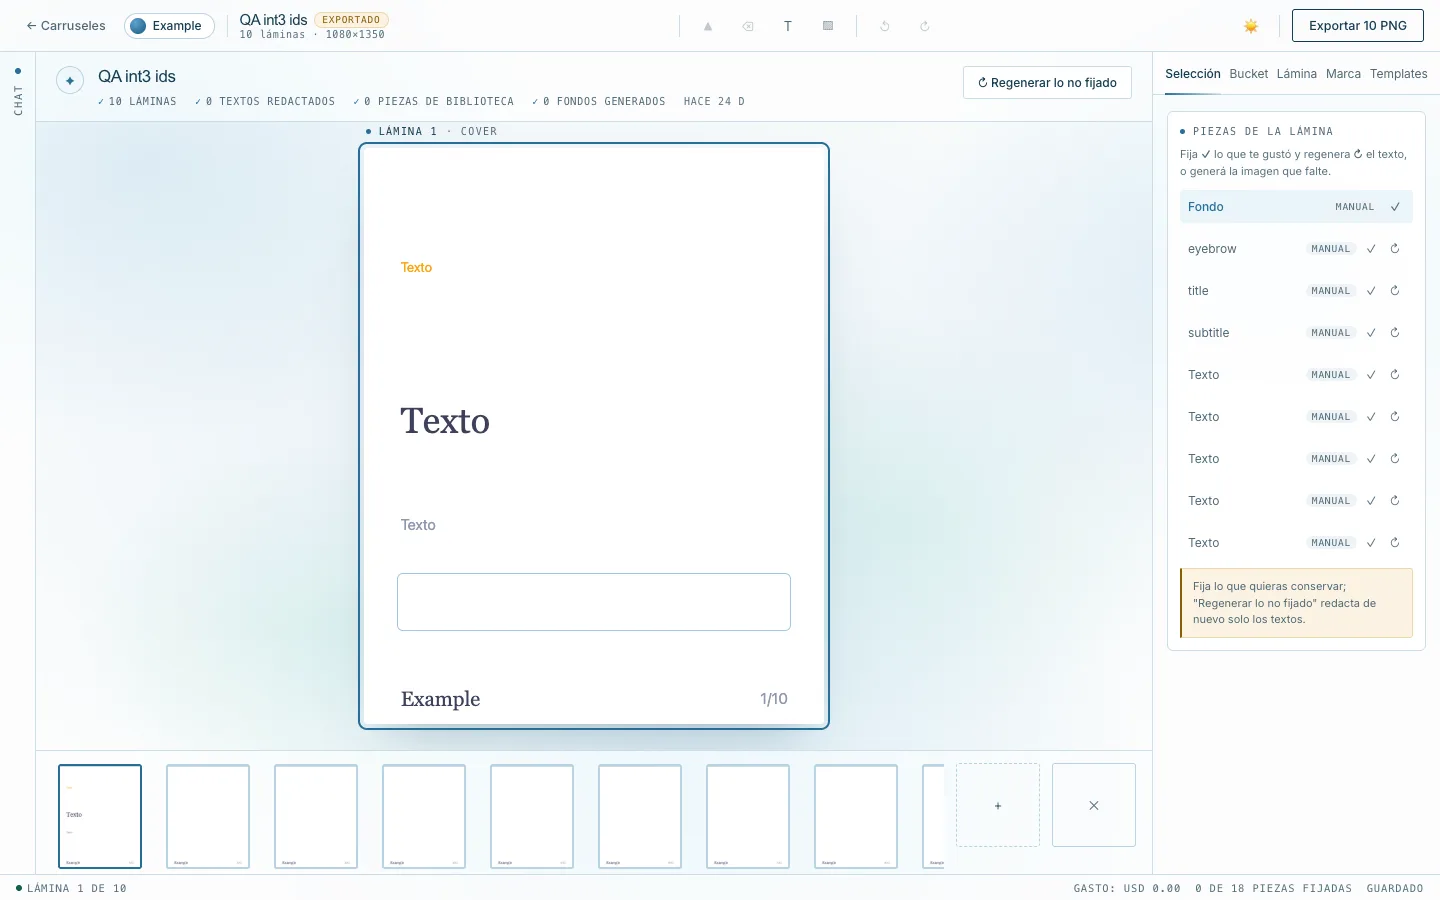
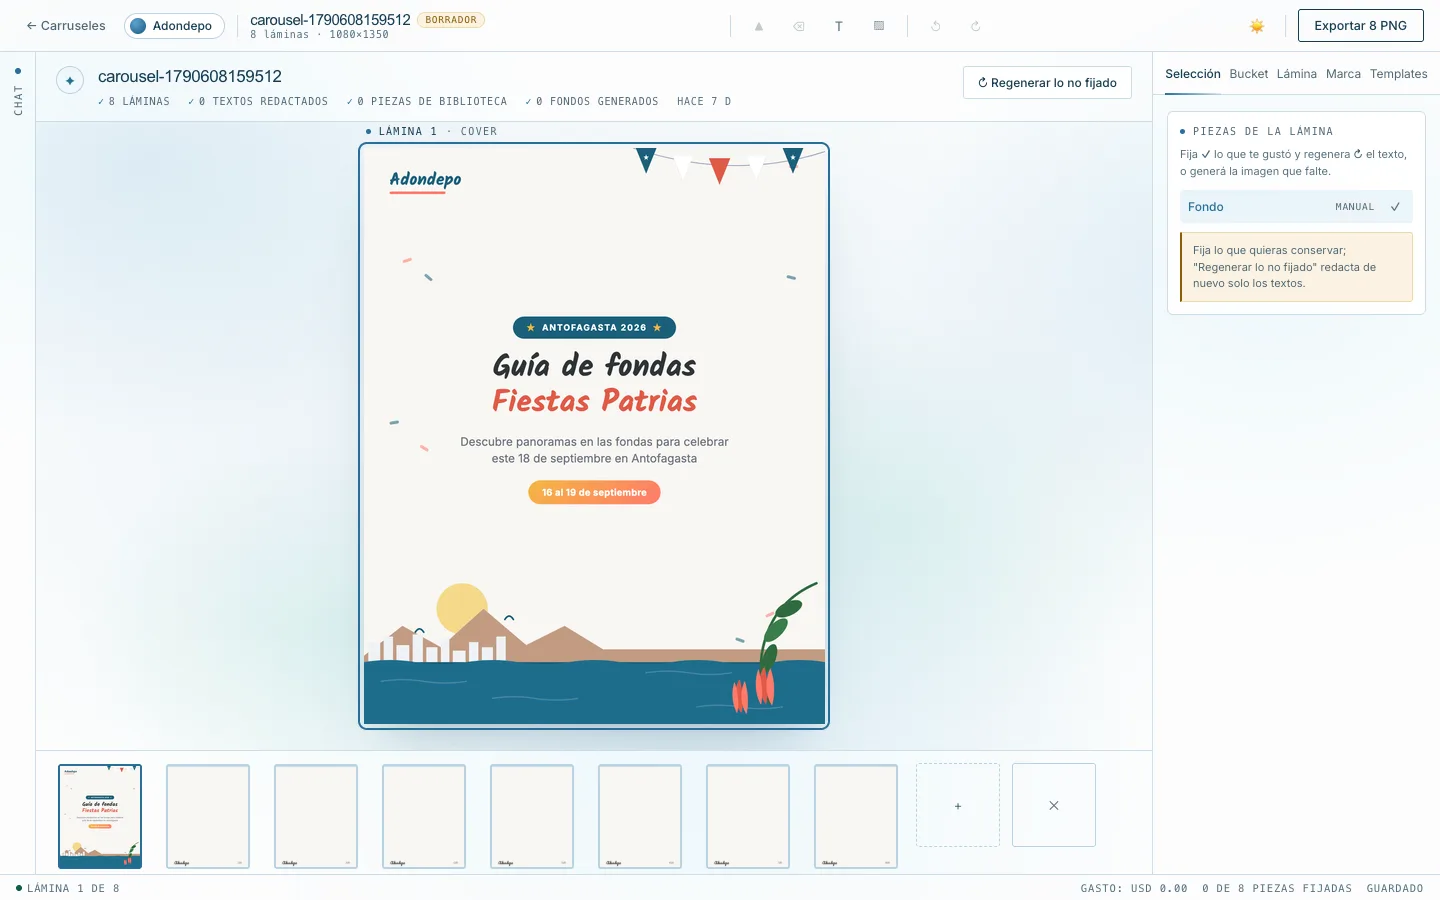
feat(workspace): show Personal Brand connected and editing an Adondepo poster
Refs #8

diff --git a/workspace/index.html b/workspace/index.html
@@ -170,7 +170,7 @@
                     <h3>Personal Brand</h3>
                     <p class="ws-tagline">Describe tu carrusel y sale armado con tu marca.</p>
                     <p>Editor web de carruseles para marca personal. Describes lo que quieres y el carrusel se genera con los colores, tipografías y plantilla de la marca; luego corriges textos, imágenes y láminas. La estructura queda fija por la plantilla y los colores salen solo de la paleta de la marca, para que cada pieza se vea consistente.</p>
-                    <ul class="ws-tags"><li>Carruseles</li><li>Generación con IA</li><li>Paleta de marca</li></ul>
+                    <ul class="ws-tags"><li>Conectado al workspace</li><li>Carruseles</li><li>Generación con IA</li><li>Paleta de marca</li></ul>
                 </div>
             </div>
         </div>
